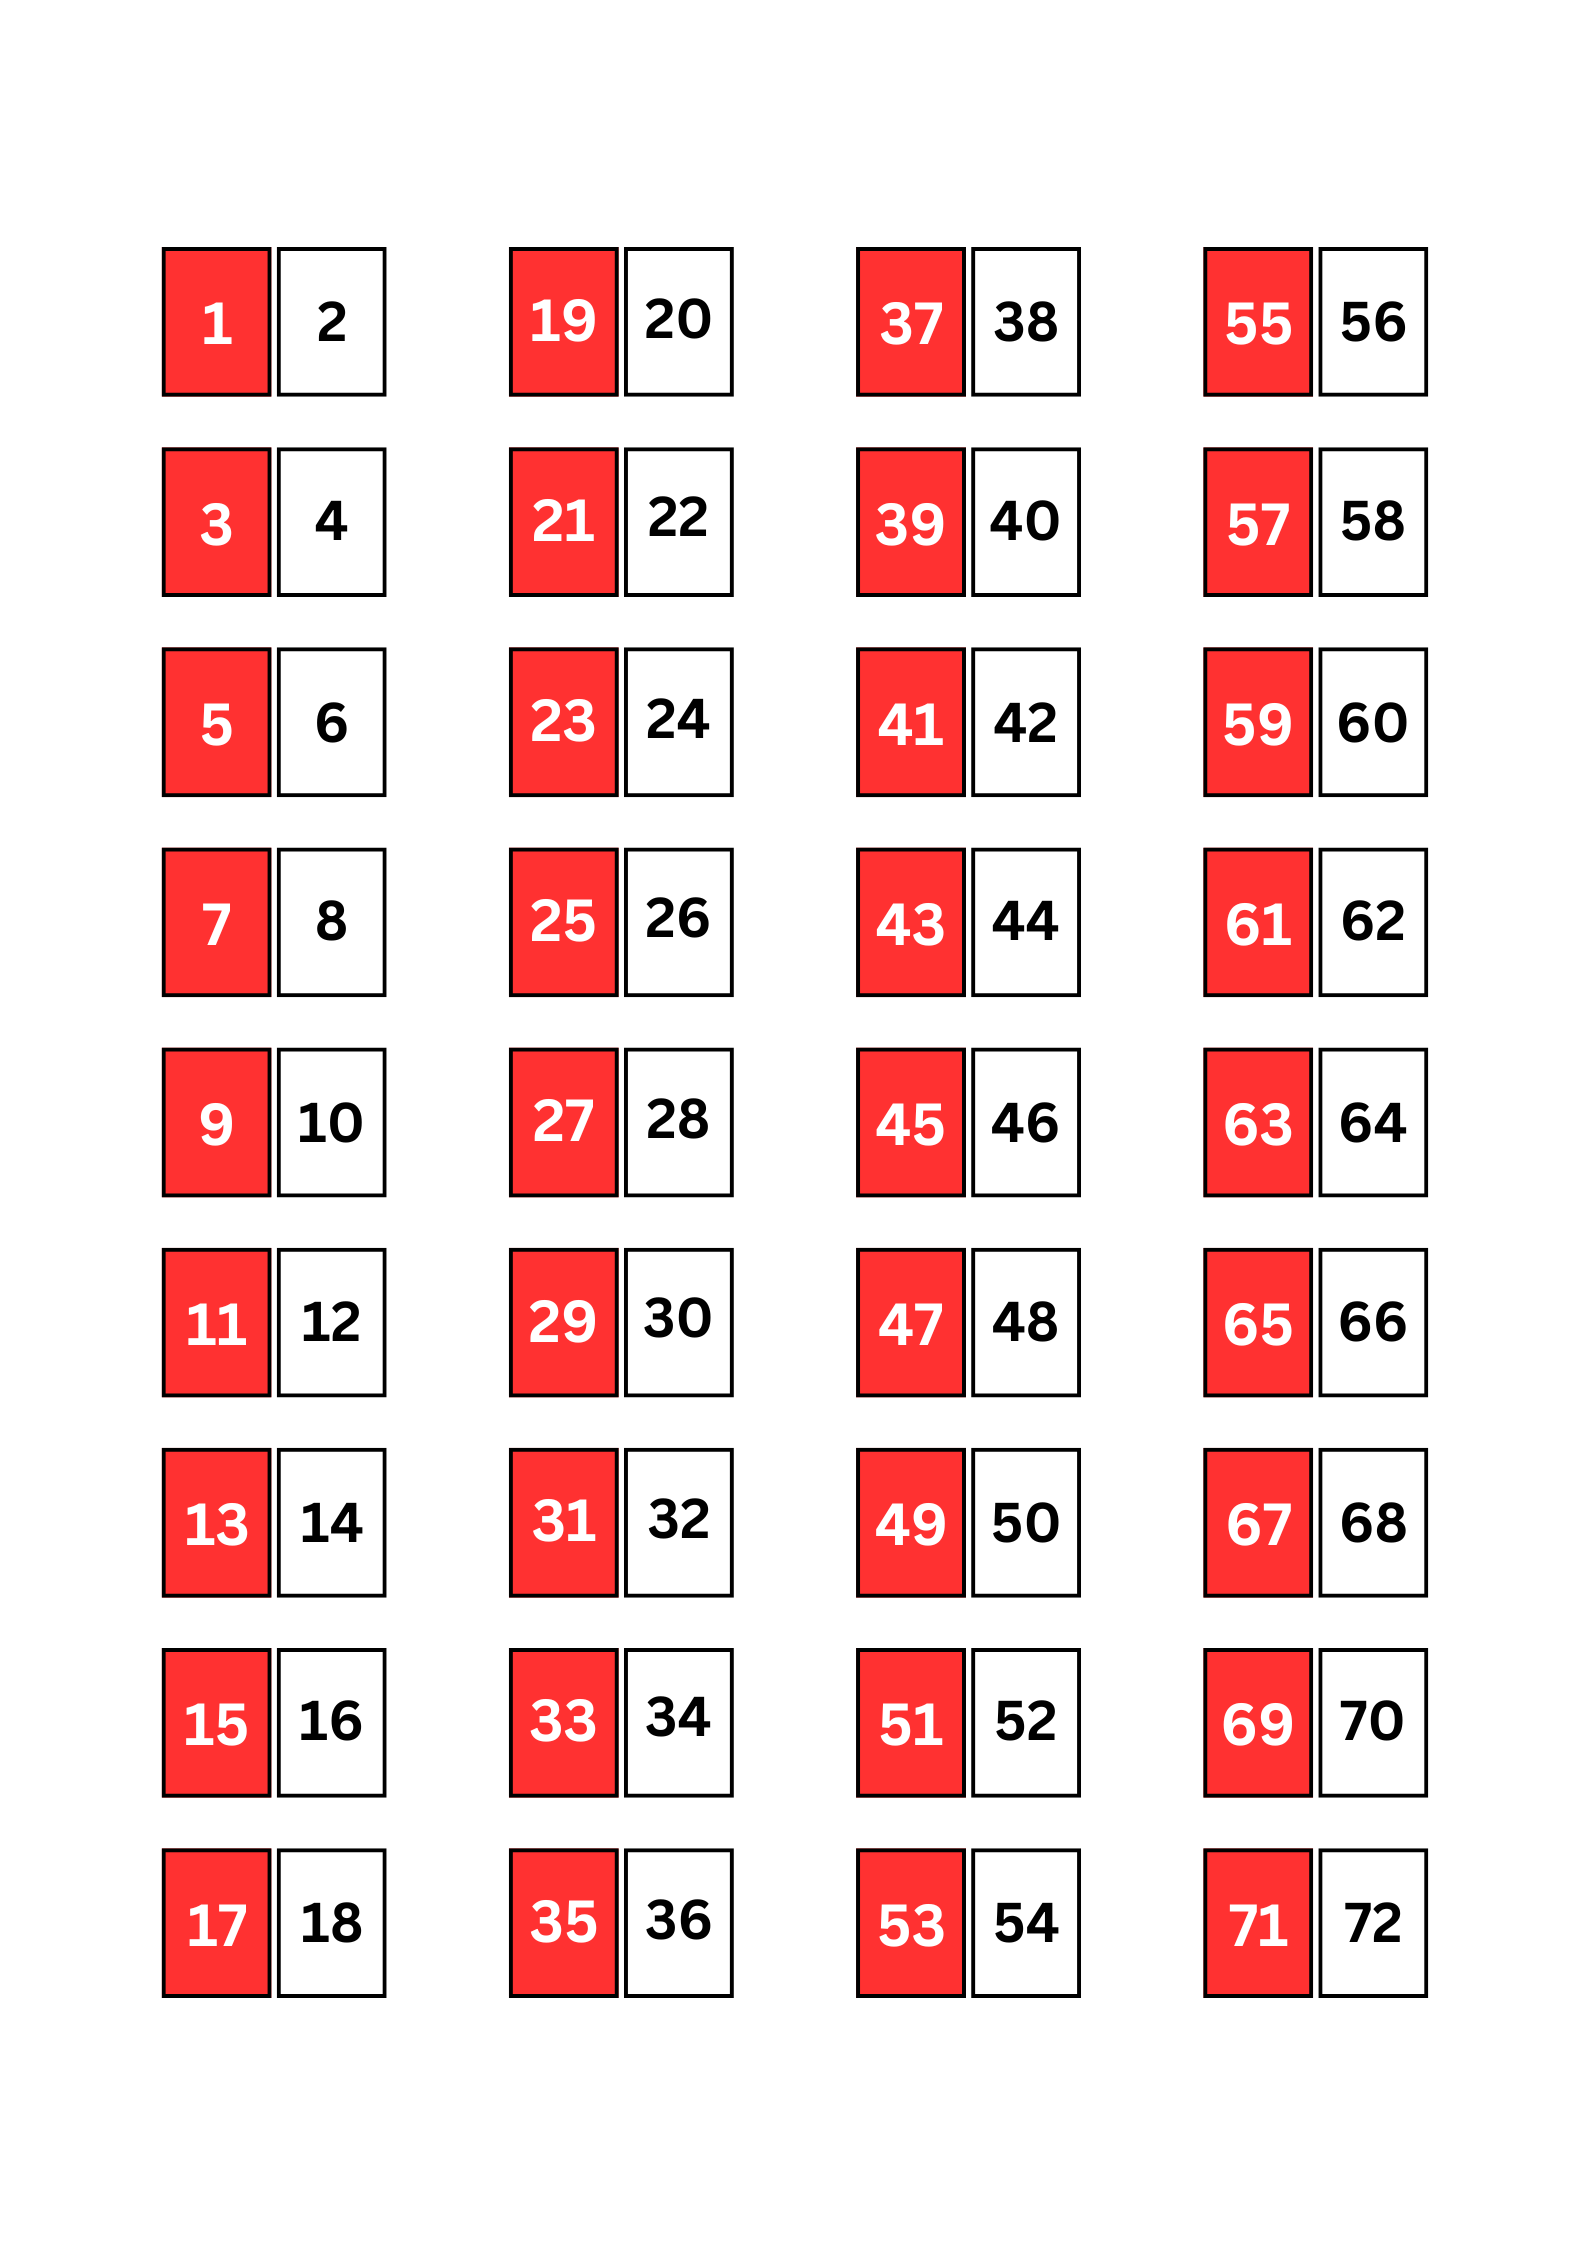
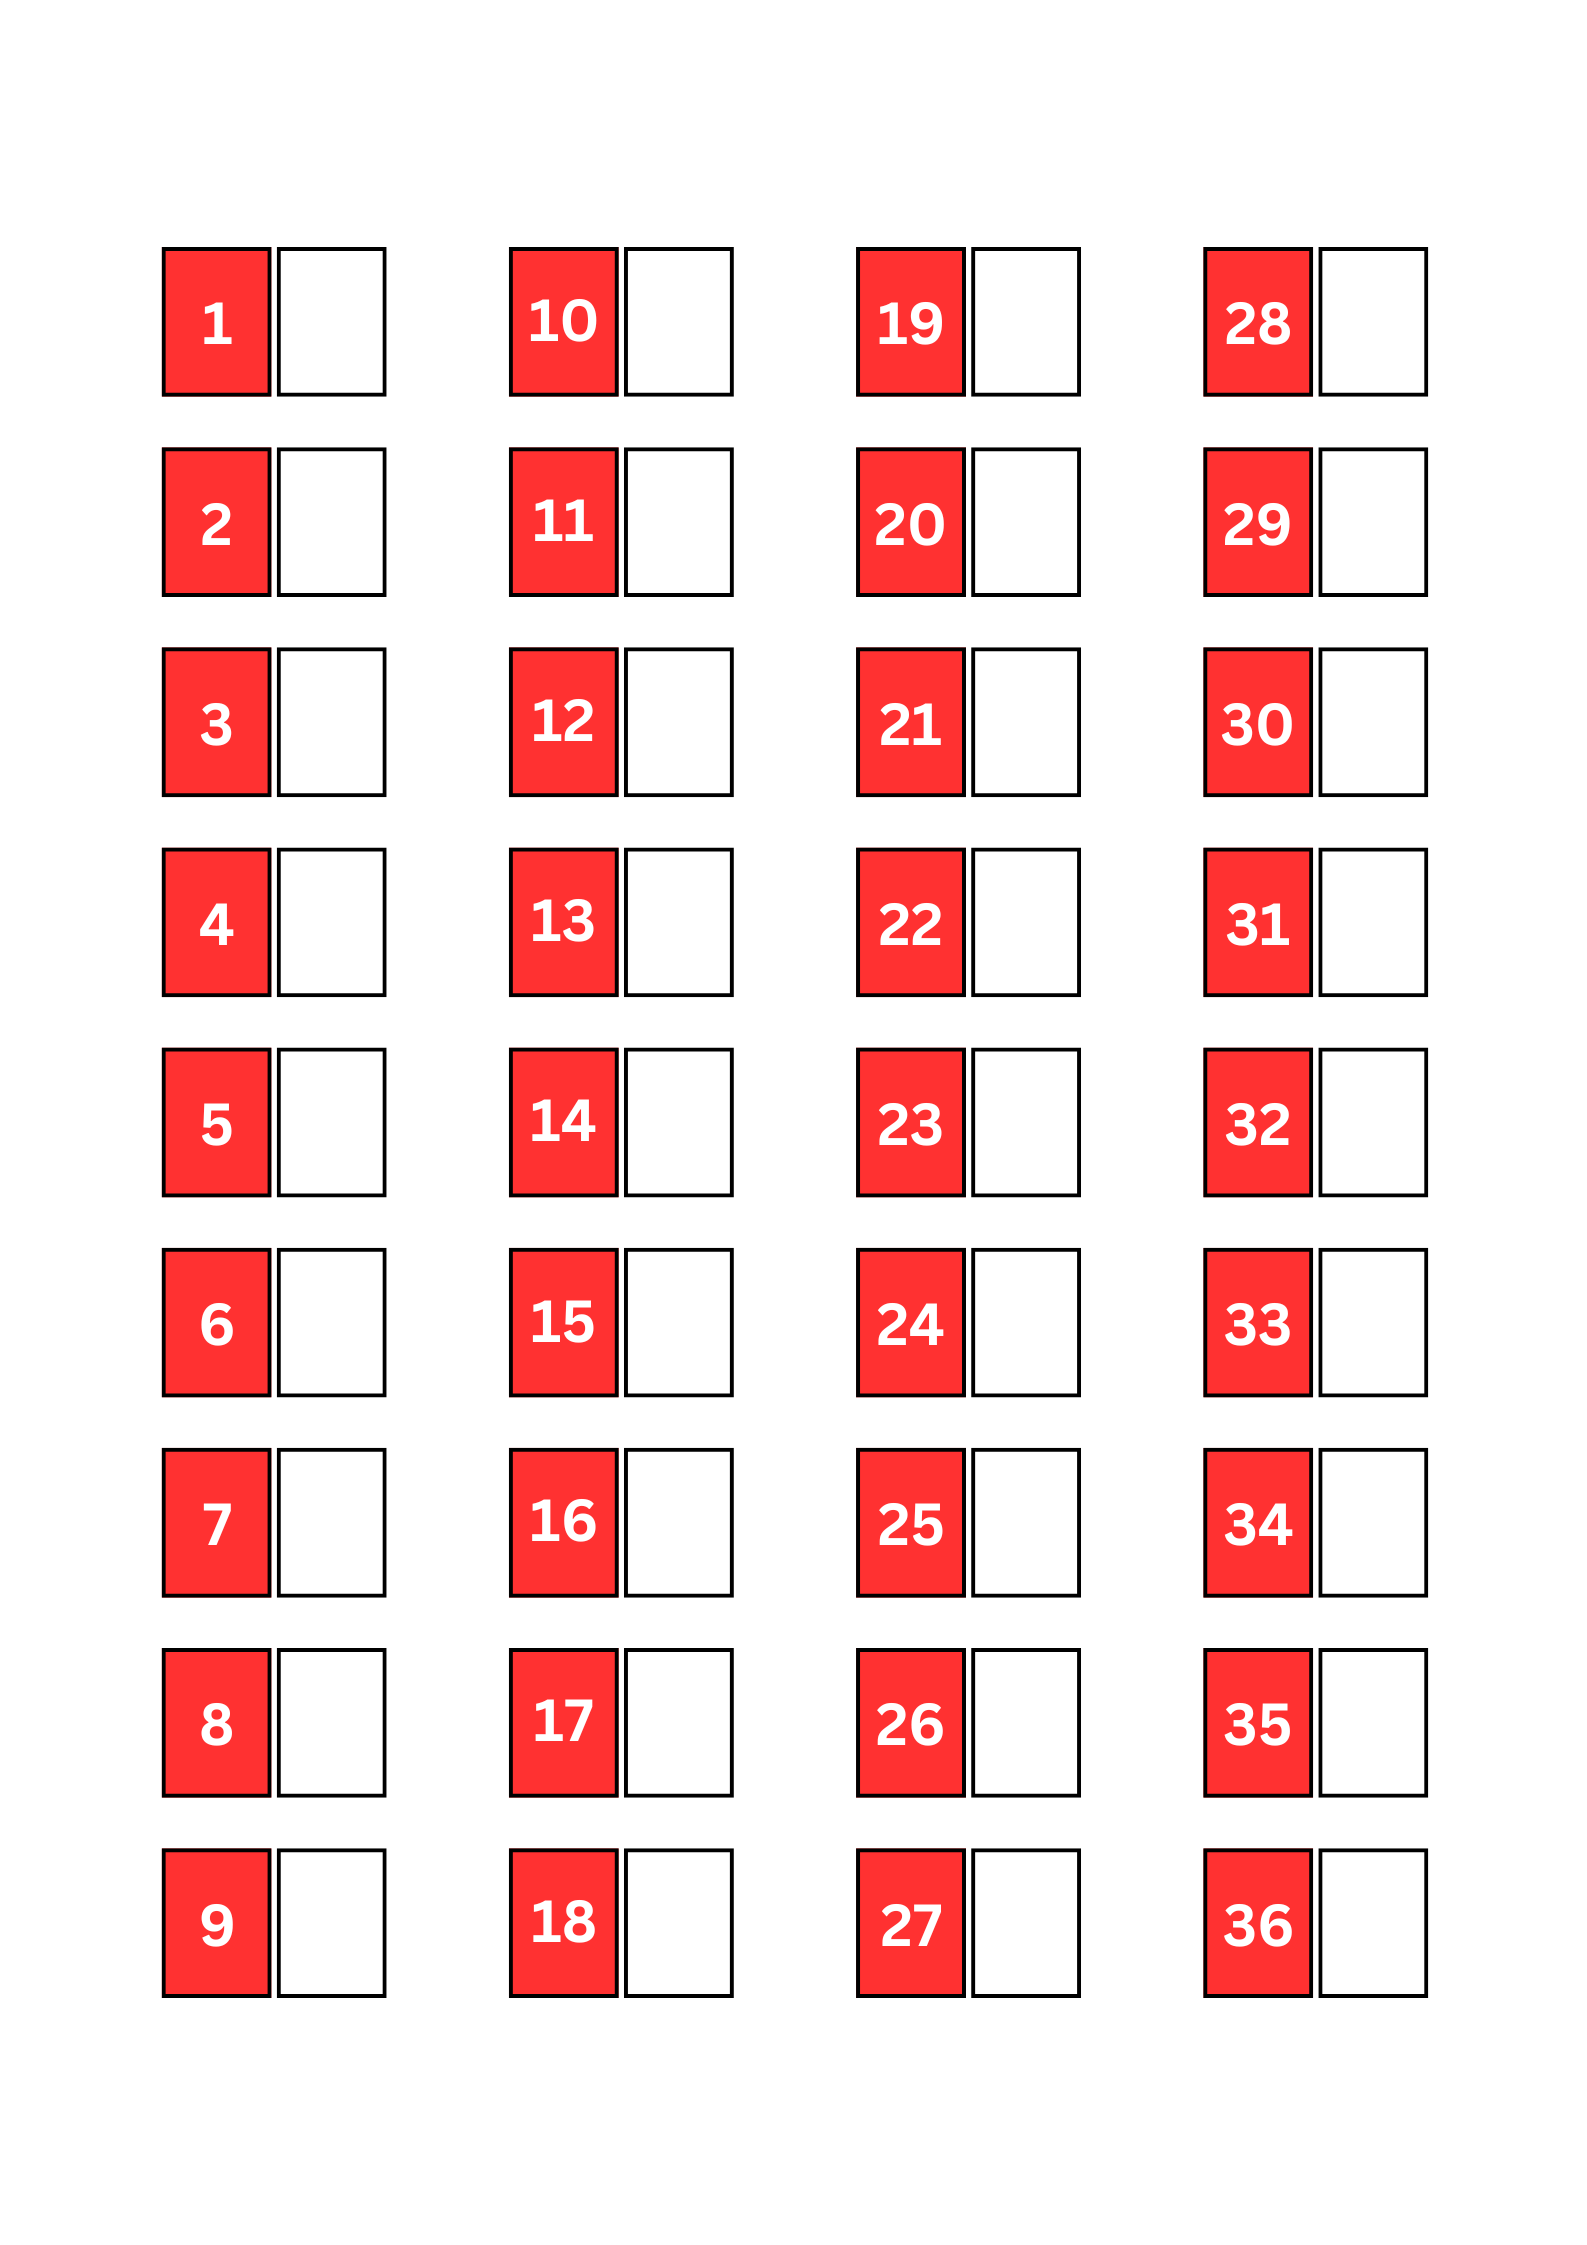
adding updated pics

diff --git a/exam/generate.html b/exam/generate.html
@@ -170,46 +170,6 @@
                     />
                   </label>
                 </div>
-                <div class="col-md-6 mb-3">
-                  <label class="radio-container">
-                    <input type="radio" name="seating_option" value="7" />
-                    <img
-                      src="stylesheet/images/ROOMS/7.png"
-                      alt="Option 7 Image"
-                      class="radio-image img-fluid"
-                    />
-                  </label>
-                </div>
-                <div class="col-md-6 mb-3">
-                  <label class="radio-container">
-                    <input type="radio" name="seating_option" value="8" />
-                    <img
-                      src="stylesheet/images/ROOMS/8.png"
-                      alt="Option 8 Image"
-                      class="radio-image img-fluid"
-                    />
-                  </label>
-                </div>
-                <div class="col-md-6 mb-3">
-                  <label class="radio-container">
-                    <input type="radio" name="seating_option" value="9" />
-                    <img
-                      src="stylesheet/images/ROOMS/9.png"
-                      alt="Option 9 Image"
-                      class="radio-image img-fluid"
-                    />
-                  </label>
-                </div>
-                <div class="col-md-6 mb-3">
-                  <label class="radio-container">
-                    <input type="radio" name="seating_option" value="10" />
-                    <img
-                      src="stylesheet/images/ROOMS/10.png"
-                      alt="Option 10 Image"
-                      class="radio-image img-fluid"
-                    />
-                  </label>
-                </div>
               </div>
 
               <!-- Submit Button -->
@@ -541,7 +501,7 @@
 
         // Increment index and check if it should reset
         index++;
-        if (index > 20) {
+        if (index > 36) {
           index = 1;
           roomNo++;  // Increment room number after 36 students
         }
